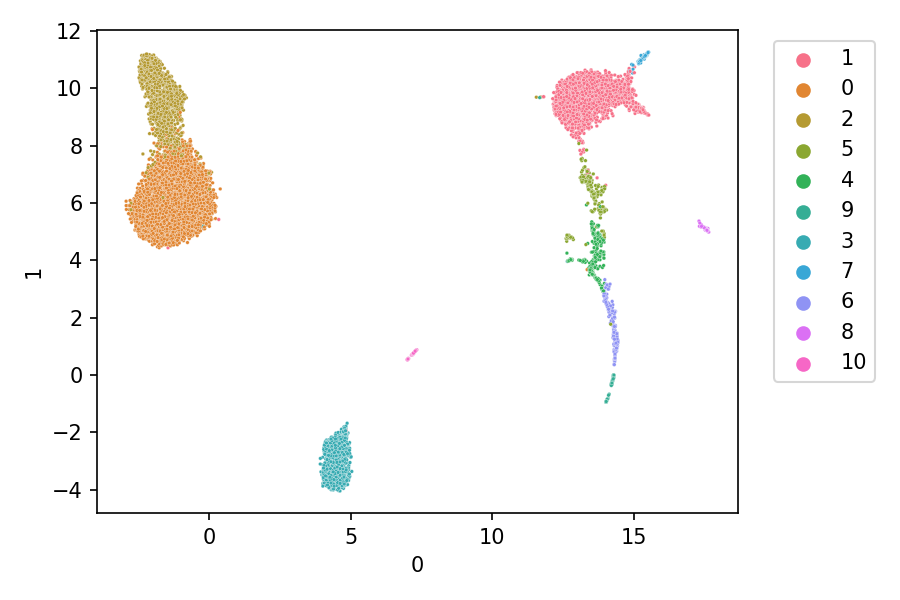
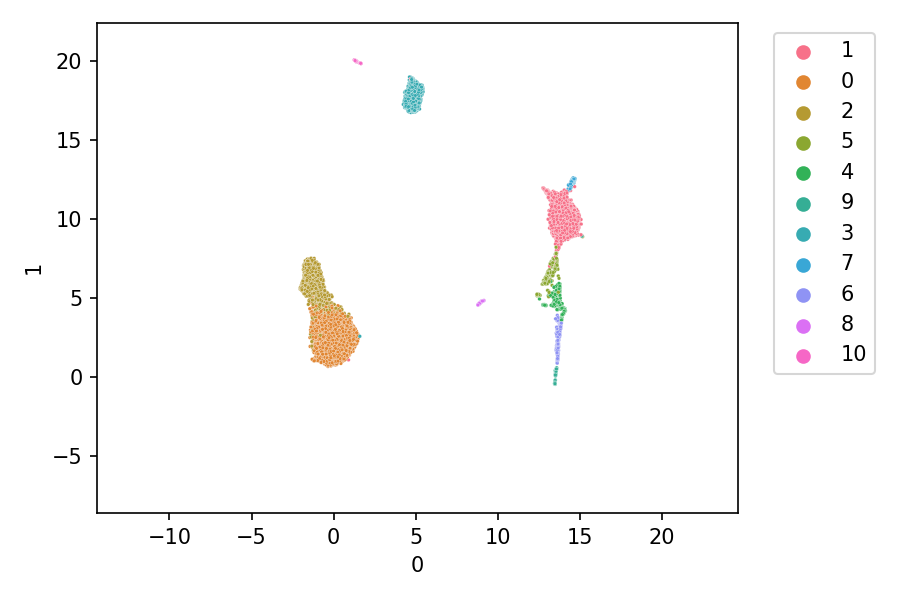
Update on labelling code

diff --git a/src/preprocessing_modules.py b/src/preprocessing_modules.py
@@ -577,7 +577,16 @@ def plot_custom_labels(data, labels, spacer, other_spacer = '',x_axis = 0, y_axi
 	df = df.rename({0:x_axis, 1:y_axis}, axis = 1)
 
 	sns.scatterplot(x = x_axis, y = y_axis, data = df, hue = 'labels', s = s)
+
+
+	x_mean = df.loc[:,x_axis].mean()
+	x_std = df.loc[:, x_axis].std()
+	y_mean = df.loc[:,y_axis].mean()
+	y_std = df.loc[:,y_axis].std()
+
 	plt.legend(bbox_to_anchor=(1.04,1), loc = 'upper left')
+	plt.xlim(x_mean - (3*x_std), x_mean + (3*x_std))
+	plt.ylim(y_mean - (3*y_std), y_mean + (3*y_std))
 	plt.tight_layout()
 	plt.savefig(f'anim/{spacer}/custom_labels_plot_{other_spacer}.png', dpi = 150)
 	plt.show()
